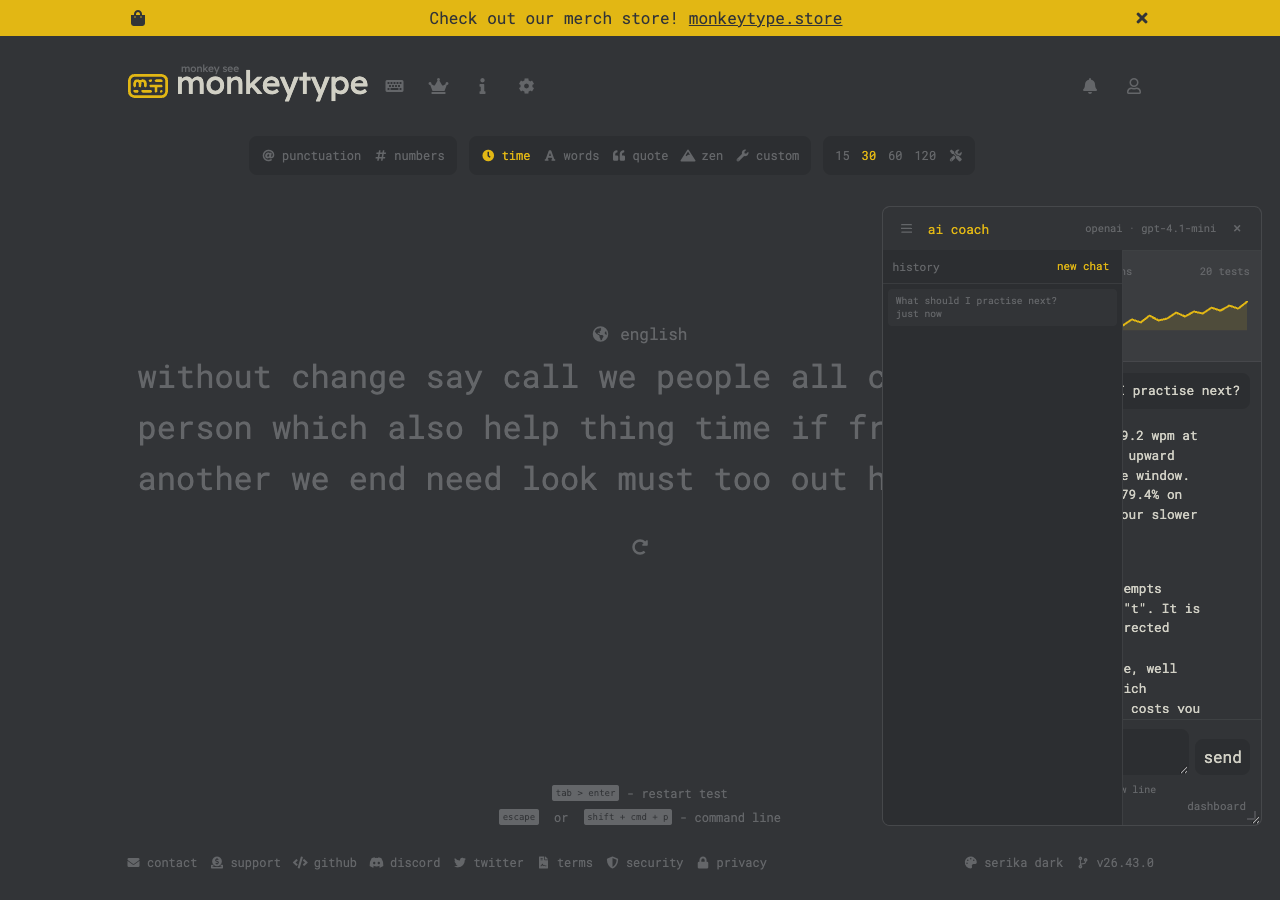
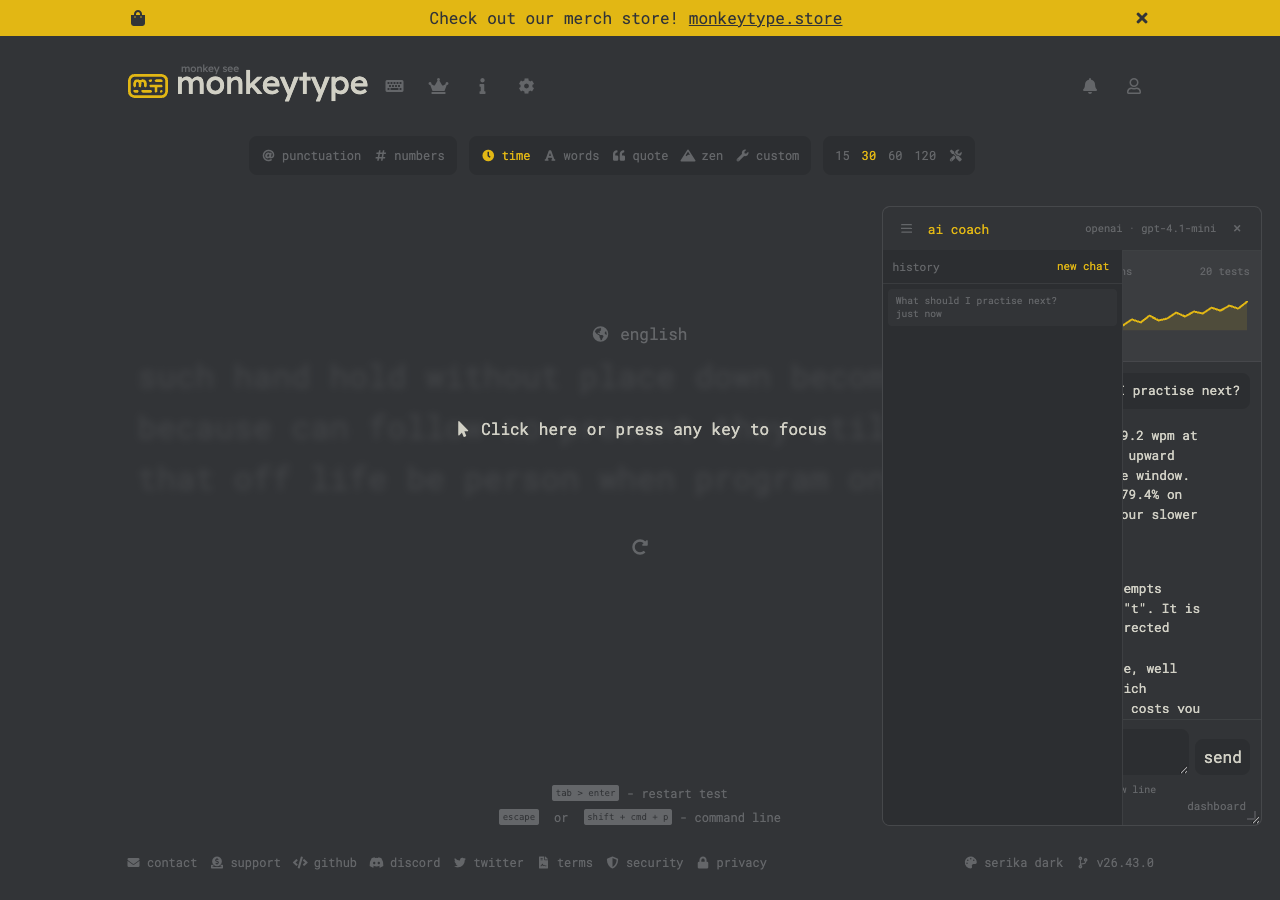
docs: credit monkeytype and add headless screenshots
- README gains a Credits section: Monkeytype and Miodec, the design-language
  boundary, the mascot, the bundled font and the open-source stack
- new headless screenshots for the tests table and settings/credits areas,
  generated from the built extension with a seeded demo profile
- the settings page now shows an about & credits panel with the version and
  links to Monkeytype, its source and the AI SDK
- THIRD_PARTY_NOTICES names Miodec as the creator

Author: Sahil Verma <domainsahil007@gmail.com>

diff --git a/apps/extension/src/ui/dashboard/SettingsTab.tsx b/apps/extension/src/ui/dashboard/SettingsTab.tsx
@@ -150,6 +150,56 @@ export function SettingsTab(props: { data: CaptureData }): ReactNode {
 				</div>
 			</Panel>
 
+			<Panel title="about & credits">
+				<div className="mtai-stack">
+					<p className="mtai-note">
+						Monkeytype AI Companion v{browser.runtime.getManifest().version} — an
+						unofficial companion for{" "}
+						<a href="https://monkeytype.com" target="_blank" rel="noopener noreferrer">
+							Monkeytype
+						</a>
+						, the typing test created by Miodec. Not affiliated with or endorsed by
+						Monkeytype.
+					</p>
+					<p className="mtai-note">
+						Design tokens and component behaviour are mirrored from Monkeytype (GPL-3.0),
+						and the in-page panel uses Monkeytype's own styles at runtime. The icon is
+						derived from its mascot; see the third-party notices. Thank you to Miodec and
+						the Monkeytype contributors for the site this extension is built around.
+					</p>
+					<p className="mtai-note">
+						Built with the Vercel AI SDK, WXT, React, marked and DOMPurify, plus the
+						open-source tools listed in the repository.
+					</p>
+					<div className="mtai-row-tight">
+						<a
+							className="mtai-button mtai-button--ghost"
+							href="https://monkeytype.com"
+							target="_blank"
+							rel="noopener noreferrer"
+						>
+							monkeytype.com
+						</a>
+						<a
+							className="mtai-button mtai-button--ghost"
+							href="https://github.com/monkeytypegame/monkeytype"
+							target="_blank"
+							rel="noopener noreferrer"
+						>
+							monkeytype source
+						</a>
+						<a
+							className="mtai-button mtai-button--ghost"
+							href="https://ai-sdk.dev"
+							target="_blank"
+							rel="noopener noreferrer"
+						>
+							vercel ai sdk
+						</a>
+					</div>
+				</div>
+			</Panel>
+
 			<Panel title="privacy">
 				<ul
 					className="mtai-note"

diff --git a/README.md b/README.md
@@ -12,7 +12,7 @@ own AI model coach you from that data.
 
 ![Dashboard overview](docs/screenshots/dashboard-hero.png)
 
-<sub>Screenshots use a seeded demo profile. No real account data, and no API calls are made to produce them.</sub>
+<sub>Screenshots are generated headlessly from the built extension (`bun run screenshots`) using a seeded demo profile. No real account data, and no API calls are made to produce them.</sub>
 
 ## Why
 
@@ -55,12 +55,14 @@ preview.
 
 ## Screenshots
 
-|                                                   |                                                     |
-| ------------------------------------------------- | --------------------------------------------------- |
-| ![AI coach](docs/screenshots/dashboard-coach.png) | ![In-page panel](docs/screenshots/inpage-panel.png) |
-| Coach grounded in your own numbers                | The same coach on monkeytype.com                    |
-| ![Trends](docs/screenshots/dashboard-trends.png)  | ![Keys](docs/screenshots/dashboard-keys.png)        |
-| Trends, comparisons and spread                    | Per-key error rates and slow pairs                  |
+|                                                   |                                                      |
+| ------------------------------------------------- | ---------------------------------------------------- |
+| ![AI coach](docs/screenshots/dashboard-coach.png) | ![In-page panel](docs/screenshots/inpage-panel.png)  |
+| Coach grounded in your own numbers                | The same coach on monkeytype.com                     |
+| ![Trends](docs/screenshots/dashboard-trends.png)  | ![Keys](docs/screenshots/dashboard-keys.png)         |
+| Trends, comparisons and spread                    | Per-key error rates and slow pairs                   |
+| ![Tests](docs/screenshots/dashboard-tests.png)    | ![Settings](docs/screenshots/dashboard-settings.png) |
+| Every captured test, with its data fidelity       | Provider, import, privacy and credits                |
 
 ![Popup](docs/screenshots/popup.png)
 
@@ -207,11 +209,30 @@ Issues and pull requests are welcome. Please keep the house rules:
 
 Conventional commits are appreciated.
 
+## Credits
+
+This extension is an unofficial companion for **[Monkeytype](https://monkeytype.com)**, the
+minimalistic typing test created by **Miodec** (Jack). Without Monkeytype there would be
+nothing to analyse:
+
+- Website: [monkeytype.com](https://monkeytype.com)
+- Source: [monkeytypegame/monkeytype](https://github.com/monkeytypegame/monkeytype) — GPL-3.0
+
+The interface deliberately follows Monkeytype's design language: CSS variable names,
+colour values and component behaviour are mirrored from the project, and the in-page
+panel uses Monkeytype's own stylesheet at runtime. No Monkeytype source code is copied
+into this repository. The icon is derived from Monkeytype's mascot; its provenance and
+licensing caveat are documented in [THIRD_PARTY_NOTICES.md](THIRD_PARTY_NOTICES.md).
+
+Bundled font: **Roboto Mono** (Apache-2.0). Built with the **Vercel AI SDK**, **WXT**,
+**React**, **Zod**, **marked** and **DOMPurify**; tested with **Vitest** and
+**Playwright**; formatted with **Biome**.
+
+Monkeytype is not affiliated with this project and does not endorse it. Thank you to
+Miodec and every Monkeytype contributor for building the site this extension is built
+around.
+
 ## License
 
-[MIT](LICENSE) © Sahil Verma.
-
-This is an unofficial companion and is not affiliated with or endorsed by Monkeytype.
-Monkeytype itself is GPL-3.0; this project contains no Monkeytype source code. Design
-values and component behaviour are mirrored, and the in-page panel uses the site's own
-loaded CSS at runtime. See [THIRD_PARTY_NOTICES.md](THIRD_PARTY_NOTICES.md).
+[MIT](LICENSE) © Sahil Verma. Image and mascot assets are called out separately in
+[THIRD_PARTY_NOTICES.md](THIRD_PARTY_NOTICES.md).

diff --git a/THIRD_PARTY_NOTICES.md b/THIRD_PARTY_NOTICES.md
@@ -12,8 +12,8 @@ https://www.apache.org/licenses/LICENSE-2.0
 
 ## Monkeytype
 
-Monkeytype (https://monkeytype.com, https://github.com/monkeytypegame/monkeytype) is
-licensed under GPL-3.0. This project is an independent, unofficial companion:
+Monkeytype (https://monkeytype.com, https://github.com/monkeytypegame/monkeytype), created
+by Miodec (Jack), is licensed under GPL-3.0. This project is an independent, unofficial companion:
 
 - it contains **no Monkeytype source code or stylesheet text**;
 - it mirrors Monkeytype's design tokens (CSS variable names and colour values) and
